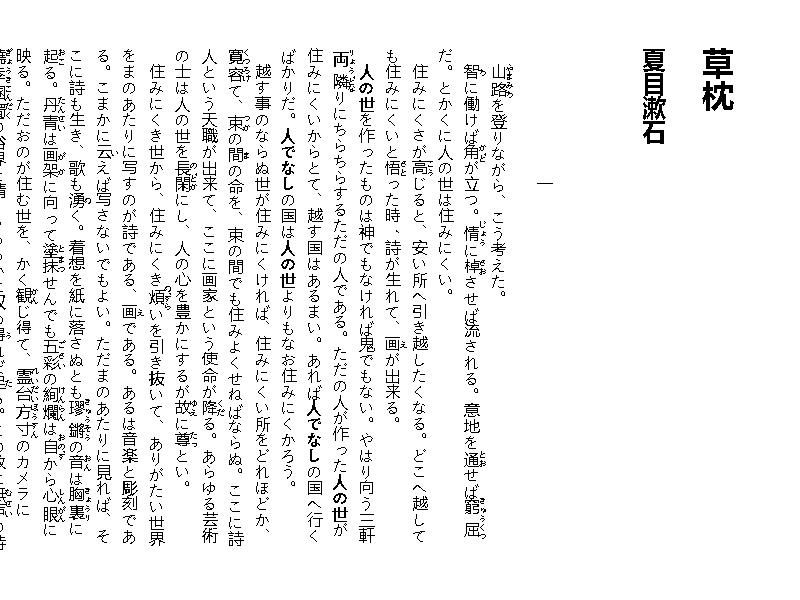
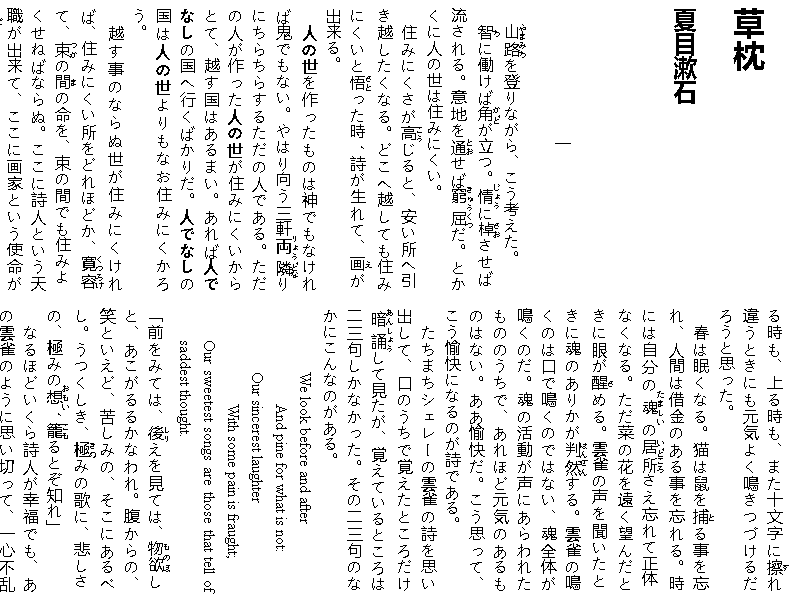
Update Kusa-Makura-background-canvas.html
so that we can test justification behavior with <ruby>.

Commit-Queue: Koji Ishii <kojii@chromium.org>
Auto-Submit: Kent Tamura <tkent@chromium.org>
Cr-Commit-Position: refs/heads/main@{#1298510}
NOKEYCHECK=True
GitOrigin-RevId: 8d5bae305f29777040defc11f613b3a27cf6f506

diff --git a/blink/web_tests/fast/writing-mode/Kusa-Makura-background-canvas.html b/blink/web_tests/fast/writing-mode/Kusa-Makura-background-canvas.html
@@ -1,6 +1,10 @@
 <?xml version="1.0" encoding="utf-8"?>
 <!DOCTYPE html PUBLIC "-//W3C//DTD XHTML 1.1//EN"
     "http://www.w3.org/TR/xhtml11/DTD/xhtml11.dtd">
+<!--
+  This is a rendering test for background painting in vertical-rl.
+  Also, this tests justification for vertical Japanese text and <ruby>.
+-->
 <html xmlns="http://www.w3.org/1999/xhtml" xml:lang="ja" >
 <head>
 	<meta http-equiv="Content-Type" content="text/html;charset=utf-8" />
@@ -9,15 +13,19 @@
 	<meta name="DC.Creator" content="夏目漱石" />
 	<meta name="DC.Publisher" content="青空文庫" />
 	<style type="text/css">
-html { -webkit-writing-mode: vertical-rl } /* to make the document vertical */
-body { overflow: hidden }
+html { writing-mode: vertical-rl } /* to make the document vertical */
+body {
+  overflow: hidden;
+  columns: 2;
+  margin: 0.5em;
+  text-align: justify;
+}
 /*body { font-family: HiraMinProN-W3;}		 to test the font vs fallback. */
-#div, h1, h2 { line-height: 150%; }			/* this line should make no difference for the line height as the default is 150 for the Japanese fonts. */
+/* this line should make no difference for the line height as the default
+   is 150 for the Japanese fonts. */
+.main_text, h1, h2 { line-height: 150%; }
 
 .jisage_2 { margin-inline-start: 2em;}
-body { margin: 8% 10%;}
-#ruby { line-height: 100%; }				/* hack to keep lines in conssitent positions. Should not be necessary. */
-#rt { line-height: 50%; }					/* hack to keep lines in conssitent positions. Should not be necessary. */
 span.notes {font-size: smaller}
 	</style>
 </head>
